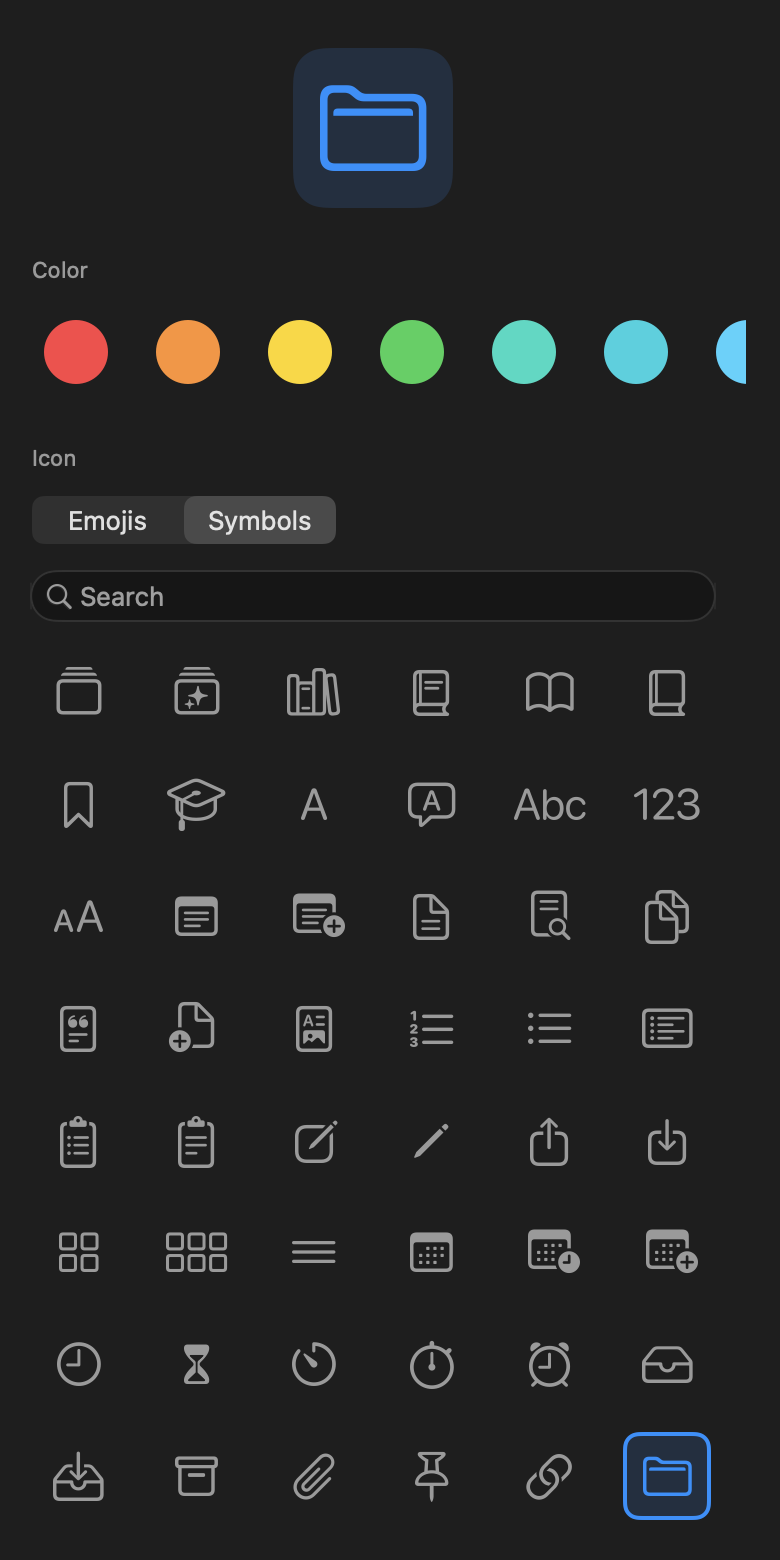
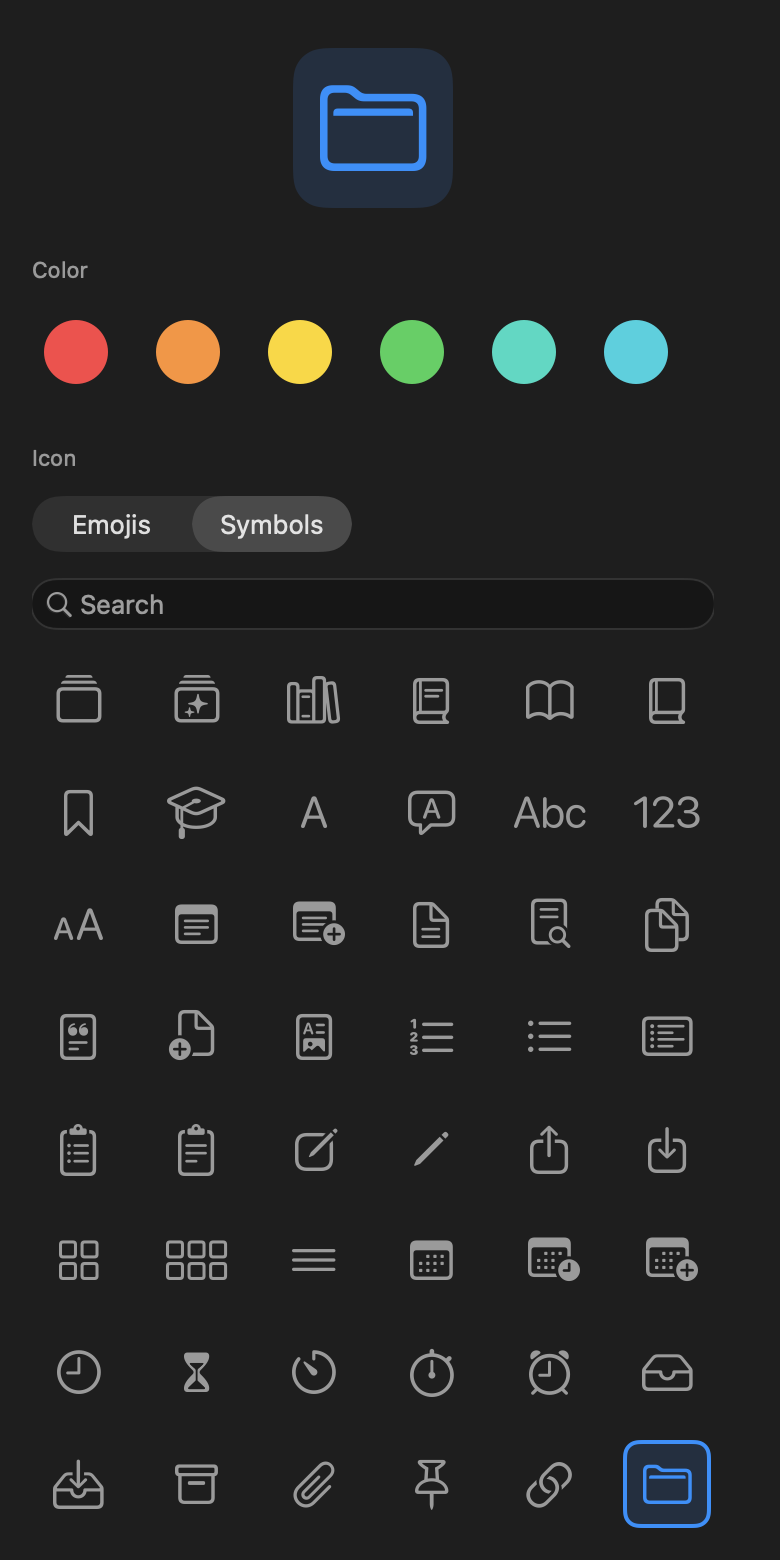
fix: share one gap, inset, and control height
Search, mode control, labels, and catalog use IconPickerLayout so
the stack no longer mixes paddings and a shorter search field.

diff --git a/Sources/IconPickerKit/IconPickerView.swift b/Sources/IconPickerKit/IconPickerView.swift
@@ -79,22 +79,21 @@ public struct IconPickerView: View {
     }
 
     private var colorSection: some View {
-        VStack(alignment: .leading, spacing: 12) {
+        VStack(alignment: .leading, spacing: IconPickerLayout.stackSpacing) {
             Text(self.labels.color)
                 .font(.subheadline)
                 .foregroundStyle(.secondary)
-                .padding(.horizontal)
                 .accessibilityAddTraits(.isHeader)
 
             ScrollView(.horizontal, showsIndicators: false) {
-                HStack(spacing: 12) {
+                HStack(spacing: IconPickerLayout.stackSpacing) {
                     ForEach(self.colors) { swatch in
                         self.colorSwatch(swatch)
                     }
                 }
-                .padding(.horizontal)
             }
         }
+        .padding(.horizontal, IconPickerLayout.horizontalInset)
     }
 
     private func colorSwatch(_ swatch: IconPickerColor) -> some View {
@@ -121,11 +120,10 @@ public struct IconPickerView: View {
     }
 
     private var iconSection: some View {
-        VStack(alignment: .leading, spacing: 12) {
+        VStack(alignment: .leading, spacing: IconPickerLayout.stackSpacing) {
             Text(self.labels.icon)
                 .font(.subheadline)
                 .foregroundStyle(.secondary)
-                .padding(.horizontal)
                 .accessibilityAddTraits(.isHeader)
 
             Picker(self.labels.icon, selection: self.$mode) {
@@ -134,14 +132,15 @@ public struct IconPickerView: View {
             }
             .pickerStyle(.segmented)
             .labelsHidden()
-            .padding(.horizontal)
+            .controlSize(.large)
+            .frame(maxWidth: .infinity, alignment: .leading)
+            .frame(height: IconPickerLayout.modeHeight)
 
             IconPickerSearchField(
                 text: self.$query,
                 debounce: self.$debounce,
                 origin: self.origin,
                 prompt: self.labels.search)
-                .padding(.horizontal)
 
             if self.mode == .emojis {
                 self.emojiGrid
@@ -149,28 +148,31 @@ public struct IconPickerView: View {
                 self.symbolGrid
             }
         }
+        .padding(.horizontal, IconPickerLayout.horizontalInset)
     }
 
     private var emojiGrid: some View {
-        LazyVGrid(columns: self.columns, spacing: 12) {
+        LazyVGrid(columns: self.columns, spacing: IconPickerLayout.stackSpacing) {
             ForEach(EmojiCatalog.search(self.debounce.applied)) { item in
                 self.emojiButton(item)
             }
         }
-        .padding(.horizontal)
     }
 
     private var symbolGrid: some View {
-        LazyVGrid(columns: self.columns, spacing: 12) {
+        LazyVGrid(columns: self.columns, spacing: IconPickerLayout.stackSpacing) {
             ForEach(SymbolCatalog.search(self.debounce.applied, in: self.symbols), id: \.self) { symbol in
                 self.symbolButton(symbol)
             }
         }
-        .padding(.horizontal)
     }
 
     private var columns: [GridItem] {
-        [GridItem(.adaptive(minimum: self.cellSize, maximum: self.cellSize * 1.4), spacing: 12)]
+        [
+            GridItem(
+                .adaptive(minimum: self.cellSize, maximum: self.cellSize * 1.4),
+                spacing: IconPickerLayout.stackSpacing),
+        ]
     }
 
     private func emojiButton(_ item: EmojiItem) -> some View {

diff --git a/Tests/IconPickerKitTests/IconPickerKitTests.swift b/Tests/IconPickerKitTests/IconPickerKitTests.swift
@@ -139,3 +139,21 @@ import Testing
     let view = IconPickerRow(icon: .constant("star"), color: .constant(.blue), symbols: symbols)
     #expect(view.symbols == symbols)
 }
+
+@Test func stackGapIsSharedAroundSearch() {
+    #expect(IconPickerLayout.spacingAboveSearch == IconPickerLayout.stackSpacing)
+    #expect(IconPickerLayout.spacingBelowSearch == IconPickerLayout.stackSpacing)
+}
+
+@Test func controlsShareOneInset() {
+    #expect(IconPickerLayout.searchInset == IconPickerLayout.horizontalInset)
+    #expect(IconPickerLayout.modeInset == IconPickerLayout.horizontalInset)
+    #expect(IconPickerLayout.labelInset == IconPickerLayout.horizontalInset)
+    #expect(IconPickerLayout.catalogInset == IconPickerLayout.horizontalInset)
+    #expect(IconPickerLayout.colorStripInset == IconPickerLayout.horizontalInset)
+}
+
+@Test func searchMatchesModeControlHeight() {
+    #expect(IconPickerLayout.searchHeight == IconPickerLayout.controlHeight)
+    #expect(IconPickerLayout.modeHeight == IconPickerLayout.controlHeight)
+}

diff --git a/Sources/IconPickerKit/IconPickerLayout.swift b/Sources/IconPickerKit/IconPickerLayout.swift
@@ -1,0 +1,18 @@
+import CoreGraphics
+
+/// Shared spacing and control size for ``IconPickerView``.
+enum IconPickerLayout {
+    static let stackSpacing: CGFloat = 12
+    static let horizontalInset: CGFloat = 16
+    static let controlHeight: CGFloat = 28
+
+    static var spacingAboveSearch: CGFloat { self.stackSpacing }
+    static var spacingBelowSearch: CGFloat { self.stackSpacing }
+    static var searchInset: CGFloat { self.horizontalInset }
+    static var modeInset: CGFloat { self.horizontalInset }
+    static var labelInset: CGFloat { self.horizontalInset }
+    static var catalogInset: CGFloat { self.horizontalInset }
+    static var colorStripInset: CGFloat { self.horizontalInset }
+    static var searchHeight: CGFloat { self.controlHeight }
+    static var modeHeight: CGFloat { self.controlHeight }
+}

diff --git a/Sources/IconPickerKit/IconPickerSearch.swift b/Sources/IconPickerKit/IconPickerSearch.swift
@@ -8,7 +8,8 @@ struct IconPickerSearchField: View {
 
     var body: some View {
         PlatformSearchField(text: self.$text, prompt: self.prompt)
-            .frame(minHeight: 28)
+            .frame(height: IconPickerLayout.searchHeight)
+            .clipped()
             .onChange(of: self.text) { _, new in
                 self.debounce.push(new, at: ContinuousClock.now - self.origin)
             }
@@ -33,6 +34,7 @@ struct PlatformSearchField: NSViewRepresentable {
         field.delegate = context.coordinator
         field.sendsSearchStringImmediately = true
         field.sendsWholeSearchString = false
+        field.controlSize = .large
         return field
     }
 

diff --git a/Sources/IconPickerKit/IconPickerRow.swift b/Sources/IconPickerKit/IconPickerRow.swift
@@ -155,7 +155,7 @@ public struct IconPickerRow: View {
     }
 
     private var emojiPopover: some View {
-        VStack(spacing: 8) {
+        VStack(spacing: IconPickerLayout.stackSpacing) {
             IconPickerSearchField(
                 text: self.$query,
                 debounce: self.$debounce,
@@ -195,7 +195,7 @@ public struct IconPickerRow: View {
     }
 
     private var symbolPopover: some View {
-        VStack(spacing: 8) {
+        VStack(spacing: IconPickerLayout.stackSpacing) {
             IconPickerSearchField(
                 text: self.$query,
                 debounce: self.$debounce,

diff --git a/CHANGELOG.md b/CHANGELOG.md
@@ -11,6 +11,7 @@ All notable changes to IconPickerKit are recorded here. The format follows
 - README stills of `IconPickerView` and `IconPickerRow` in light and dark.
 - Platform search on both pickers, with debounce. The same query filters emojis or symbols.
 - Search is an in-catalog field (`NSSearchField` / `UISearchBar`) so it is visible without a nav bar.
+- One stack gap, inset, and control height for the full picker’s label, mode control, search, and catalog.
 - `SymbolCatalog.search` and `SearchDebounce`.
 
 ### Changed
